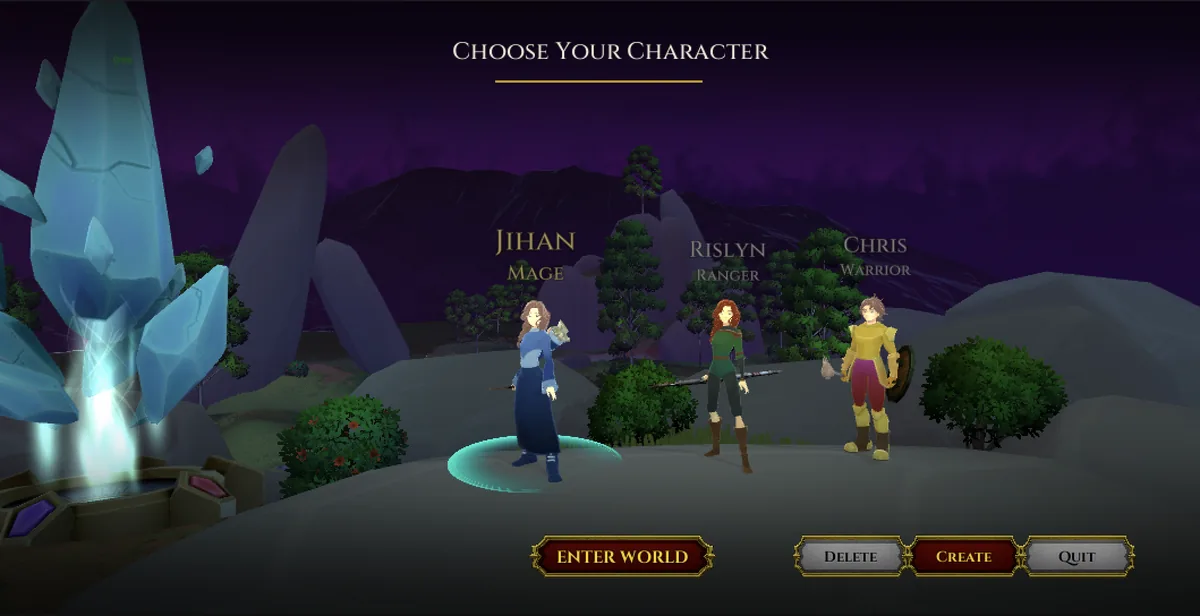
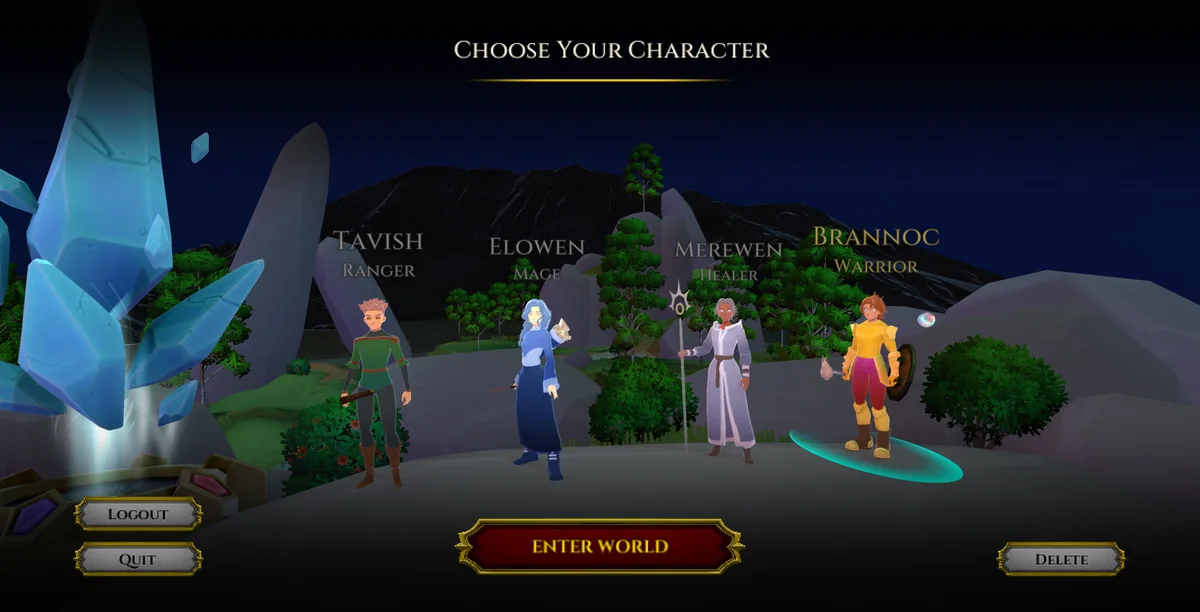
Add Game Loop and Classes sections with character portraits
- New "How You Play" section ("The shadow holds many secrets") walking the
  core loop: explore for resources, bring it home, find friends, face what
  you can't alone.
- New "Choose Your Role" section with Warrior, Mage, Healer, and Ranger
  (Coming Soon), using real character busts framed as gold medallions.
- Portraits head-centered for consistent framing; nav gains a Classes link.
- Replace carousel character-select screenshot with the updated 4-class screen.

diff --git a/index.html b/index.html
@@ -736,6 +736,175 @@
     line-height: 1.6;
   }
 
+  /* ---- CLASSES ---- */
+  .classes-grid {
+    display: grid;
+    grid-template-columns: repeat(4, 1fr);
+    gap: 24px;
+    margin-top: 48px;
+  }
+
+  .class-card {
+    position: relative;
+    background: var(--dark-card);
+    border: 1px solid rgba(255, 255, 255, 0.06);
+    border-radius: 4px;
+    padding: 34px 24px 30px;
+    text-align: center;
+    transition: border-color 0.3s, transform 0.3s;
+  }
+
+  .class-card:hover {
+    border-color: rgba(212, 166, 73, 0.3);
+    transform: translateY(-2px);
+  }
+
+  .class-card.coming-soon { opacity: 0.8; }
+
+  .class-portrait {
+    width: 112px;
+    height: 112px;
+    margin: 0 auto 18px;
+    border-radius: 50%;
+    overflow: hidden;
+    background: radial-gradient(circle at 50% 28%, rgba(212, 166, 73, 0.22), rgba(26, 26, 37, 0.9));
+    border: 2px solid rgba(212, 166, 73, 0.35);
+    box-shadow: 0 0 0 4px rgba(212, 166, 73, 0.06), 0 10px 24px rgba(0, 0, 0, 0.35);
+  }
+
+  .class-portrait img {
+    width: 100%;
+    height: 100%;
+    object-fit: cover;
+    object-position: center top;
+    display: block;
+  }
+
+  .class-portrait-locked {
+    display: flex;
+    align-items: center;
+    justify-content: center;
+    background: radial-gradient(circle at 50% 35%, rgba(212, 166, 73, 0.12), rgba(26, 26, 37, 0.95));
+  }
+
+  .class-portrait-locked svg {
+    width: 46px;
+    height: 46px;
+    color: var(--gold-light);
+    opacity: 0.85;
+  }
+
+  .class-card h3 {
+    font-family: 'Trajan Pro', serif;
+    font-size: 20px;
+    font-weight: 600;
+    color: var(--text-primary);
+    margin-bottom: 4px;
+  }
+
+  .class-role {
+    font-size: 11px;
+    font-weight: 600;
+    letter-spacing: 2px;
+    text-transform: uppercase;
+    color: var(--gold);
+    margin-bottom: 14px;
+  }
+
+  .class-desc {
+    font-size: 13px;
+    color: var(--text-secondary);
+    line-height: 1.6;
+  }
+
+  .class-badge {
+    position: absolute;
+    top: 12px;
+    right: 12px;
+    font-size: 9px;
+    font-weight: 700;
+    letter-spacing: 1.2px;
+    text-transform: uppercase;
+    color: var(--dark-bg);
+    background: var(--gold);
+    padding: 3px 9px;
+    border-radius: 20px;
+  }
+
+  /* ---- GAME LOOP ---- */
+  .loop-grid {
+    display: grid;
+    grid-template-columns: repeat(4, 1fr);
+    gap: 20px;
+    margin-top: 48px;
+  }
+
+  .loop-step {
+    position: relative;
+    background: var(--dark-card);
+    border: 1px solid rgba(255, 255, 255, 0.06);
+    border-radius: 4px;
+    padding: 28px 24px 30px;
+    overflow: hidden;
+    transition: border-color 0.3s, transform 0.3s;
+  }
+
+  .loop-step:hover {
+    border-color: rgba(212, 166, 73, 0.3);
+    transform: translateY(-2px);
+  }
+
+  .loop-step::before {
+    content: "";
+    position: absolute;
+    left: 0;
+    top: 0;
+    bottom: 0;
+    width: 2px;
+    background: linear-gradient(to bottom, var(--gold), transparent);
+    opacity: 0.6;
+  }
+
+  .loop-num {
+    font-family: 'Trajan Pro', serif;
+    font-size: 48px;
+    line-height: 1;
+    font-weight: 700;
+    color: rgba(212, 166, 73, 0.22);
+    margin-bottom: 12px;
+  }
+
+  .loop-step h3 {
+    font-family: 'Trajan Pro', serif;
+    font-size: 17px;
+    font-weight: 600;
+    color: var(--text-primary);
+    margin-bottom: 8px;
+  }
+
+  .loop-step p {
+    font-size: 13px;
+    color: var(--text-secondary);
+    line-height: 1.6;
+  }
+
+  .loop-cycle {
+    margin-top: 30px;
+    text-align: center;
+    font-size: 13px;
+    letter-spacing: 0.5px;
+    color: var(--gold);
+    opacity: 0.9;
+    font-style: italic;
+  }
+
+  .loop-cycle-icon {
+    font-style: normal;
+    font-size: 16px;
+    vertical-align: -1px;
+    margin-right: 5px;
+  }
+
   /* ---- PLAYTESTS ---- */
   .playtests-section {
     position: relative;
@@ -1390,6 +1559,10 @@
 
     .features-grid { grid-template-columns: repeat(2, 1fr); }
 
+    .classes-grid { grid-template-columns: repeat(2, 1fr); }
+
+    .loop-grid { grid-template-columns: repeat(2, 1fr); }
+
     .playtests-layout { grid-template-columns: 1fr; }
 
     .playtest-featured { grid-row: auto; }
@@ -1405,6 +1578,10 @@
     .signup-form button { width: 100%; }
 
     .features-grid { grid-template-columns: 1fr; }
+
+    .classes-grid { grid-template-columns: 1fr; }
+
+    .loop-grid { grid-template-columns: 1fr; }
 
     .hero-description { font-size: 16px; }
 
@@ -1432,6 +1609,7 @@
   <ul class="nav-links" id="nav-links">
     <li><a href="#game">Game</a></li>
     <li><a href="#about">About</a></li>
+    <li><a href="#classes">Classes</a></li>
     <li><a href="#playtests">Videos</a></li>
     <li><a href="#signup-bottom">Sign Up</a></li>
   </ul>
@@ -1538,6 +1716,80 @@
       <h3>Every Platform, One World</h3>
       <p>PC, Mac, Switch, Xbox, PlayStation, iOS, Android. Dad's on console, the kids are on tablets, you're on PC. Same world. Same adventure. Your progress persists when you log off.</p>
     </div>
+  </div>
+</section>
+
+<!-- GAME LOOP -->
+<section id="loop">
+  <p class="section-label">How You Play</p>
+  <h2 class="section-title">The shadow holds many secrets</h2>
+  <p class="section-body">Beyond the lantern-light, the world lies broken and waiting. Every ruin, every silent grove, every soul lost to the dark is hiding something worth finding. Haven is a loop you'll never want to leave &mdash; venture out, bring the light home, and gather the friends who'll carry you through what's coming.</p>
+  <div class="loop-grid">
+
+    <div class="loop-step">
+      <div class="loop-num">01</div>
+      <h3>Explore the Dark</h3>
+      <p>Venture past the safety of the village into a fractured, beautiful world. Search its ruins and wilds for the resources, relics, and lost souls the shadow has swallowed &mdash; the deeper you go, the greater the reward.</p>
+    </div>
+
+    <div class="loop-step">
+      <div class="loop-num">02</div>
+      <h3>Bring It Home</h3>
+      <p>Carry everything you find back to the village. Rebuild it, grow it, and light it &mdash; because clearing out monsters never lasts, and the only place that stays safe is the one you build together.</p>
+    </div>
+
+    <div class="loop-step">
+      <div class="loop-num">03</div>
+      <h3>Find Your Friends</h3>
+      <p>You were never meant to do this alone. Rescue the lost, free the corrupted, and turn yesterday's enemies into today's allies. Every friend you make along the way makes your whole party stronger.</p>
+    </div>
+
+    <div class="loop-step">
+      <div class="loop-num">04</div>
+      <h3>Face What You Can't Alone</h3>
+      <p>Some secrets are guarded by things no single hero can stand against. When the dark pushes back hardest, you'll need a full party at your side &mdash; and all the trust you built getting there.</p>
+    </div>
+
+  </div>
+  <p class="loop-cycle"><span class="loop-cycle-icon">&#8635;</span> Rest, resupply, and venture out again &mdash; a world that always has more to give.</p>
+</section>
+
+<!-- CLASSES -->
+<section id="classes">
+  <p class="section-label">Choose Your Role</p>
+  <h2 class="section-title">Pick your part in the party</h2>
+  <p class="section-body">Haven's classes are built to need each other. Tank, protect, deal damage, and control the fight together &mdash; because cooperation isn't a bonus here, it's how you win.</p>
+  <div class="classes-grid">
+
+    <div class="class-card">
+      <div class="class-portrait"><img src="assets/classes/warrior.png" alt="The Warrior class in Haven" loading="lazy" width="256" height="256"></div>
+      <h3>Warrior</h3>
+      <p class="class-role">Tank &middot; Vanguard</p>
+      <p class="class-desc">Stand at the front and hold the line. Taunt the darkness onto yourself and shield your party in light, so your friends can do their work behind you.</p>
+    </div>
+
+    <div class="class-card">
+      <div class="class-portrait"><img src="assets/classes/mage.png" alt="The Mage class in Haven" loading="lazy" width="256" height="256"></div>
+      <h3>Mage</h3>
+      <p class="class-role">Damage &middot; Elementalist</p>
+      <p class="class-desc">Command fire and ice from range. Freeze, burn, and shatter corruption before it ever reaches your friends &mdash; raw light turned to devastating magic.</p>
+    </div>
+
+    <div class="class-card">
+      <div class="class-portrait"><img src="assets/classes/healer.png" alt="The Healer class in Haven" loading="lazy" width="256" height="256"></div>
+      <h3>Healer</h3>
+      <p class="class-role">Protector &middot; Support</p>
+      <p class="class-desc">Keep your party standing when the dark pushes back. Mend wounds, raise the fallen, and wrap your friends in Shielding Light &mdash; because no one lights the dark alone.</p>
+    </div>
+
+    <div class="class-card coming-soon">
+      <span class="class-badge">Coming Soon</span>
+      <div class="class-portrait"><img src="assets/classes/ranger.png" alt="The Ranger class in Haven" loading="lazy" width="360" height="360"></div>
+      <h3>Ranger</h3>
+      <p class="class-role">Control &middot; Hunter</p>
+      <p class="class-desc">Master of the battlefield. Mark your prey, lay snares, and vanish into the treeline, controlling every fight from the edges. The Ranger joins Haven soon.</p>
+    </div>
+
   </div>
 </section>
 
